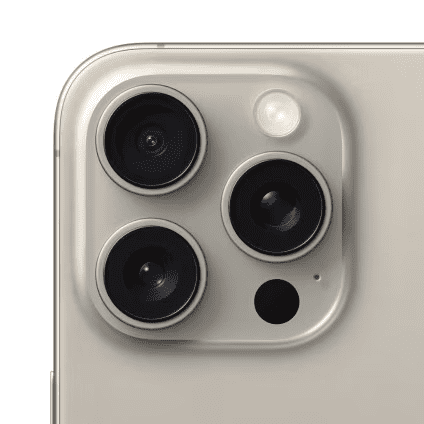
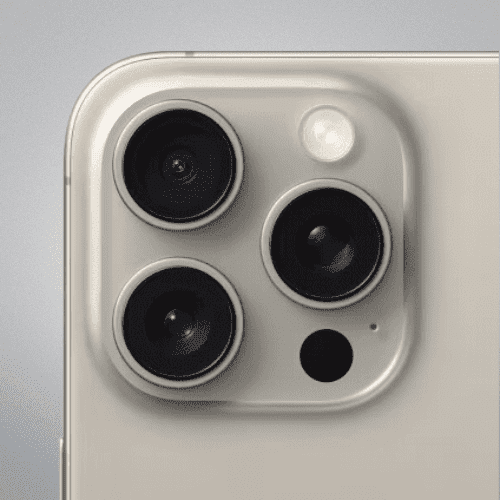
finishing imgs and styling inputs

Changed region(s): [[0.0, 0.0, 1.0, 1.0], [0.9811, 0.8278, 1.0, 1.0]]

diff --git a/product-card/index.html b/product-card/index.html
@@ -10,7 +10,7 @@
   <main>
     <div class="card">
       <div class="image">
-        <img src="/assets/iphone-white/image-01.png" alt="">
+        <img src="/assets/iphone-black/image-01.png" alt="">
       </div>
 
       <div class="title">
@@ -25,10 +25,10 @@
       <div class="choose-color">
         <span>Selecione a cor:</span>
         <div>
-          <div class="color" style="background-color: #bfbbb2;"></div>
-          <div class="color" style="background-color: #fefdf8;"></div>
-          <div class="color" style="background-color: #34475c;"></div>
-          <div class="color" style="background-color: #1d1d1d;"></div>
+          <input type="radio" name="iphone-color" style="background-color: #bfbbb2;"></input>
+          <input type="radio" name="iphone-color" style="background-color: #fefdf8;"></input>
+          <input type="radio" name="iphone-color" style="background-color: #3d5670;"></input>
+          <input type="radio" name="iphone-color" style="background-color: #353535;"></input>
         </div>
       </div>
 
@@ -40,7 +40,7 @@
 
     <div class="card">
       <div class="image">
-        <img src="/assets/mac-silver/image-01.png" alt="">
+        <img src="/assets/mac-midnight/image-01.png" alt="">
       </div>
 
       <div class="title">
@@ -55,9 +55,9 @@
       <div class="choose-color">
         <span>Selecione a cor:</span>
         <div>
-          <div class="color" style="background-color: #cccdcf;"></div>
-          <div class="color" style="background-color: #76777b;"></div>
-          <div class="color" style="background-color: #3a404c;"></div>
+          <input type="radio" name="mac-color" style="background-color: #cccdcf;"></input>
+          <input type="radio" name="mac-color" style="background-color: #76777b;"></input>
+          <input type="radio" name="mac-color" style="background-color: #3a404c;"></input>
         </div>
       </div>
 

diff --git a/product-card/style.css b/product-card/style.css
@@ -36,7 +36,7 @@ main .card {
 .card .image {
   width: 310px;
   height: 270px;
-  border: 1px solid #000;
+  /* border: 1px solid #000; */
   border-radius: inherit;
   overflow: hidden;
 }
@@ -79,7 +79,7 @@ main .card {
 .card .choose-color span {
   font-size: 1.2rem;
   color: #6D6D6D;
-  margin-bottom: 4px;
+  margin-bottom: 8px;
 }
 
 .card .choose-color > div {
@@ -87,13 +87,25 @@ main .card {
   gap: 10px;
 }
 
-.card .choose-color .color {
-  width: 30px;
-  height: 30px;
-  background-color: rgb(182, 58, 58);
-  border: 1px solid #CBCBCB; /* FAZER ALGUM TIPO DE BOX-SHADOW INSET IGUAL SITE APPLE*/
+input {
+  all: unset;
+  width: 28px;
+  height: 28px;
+  background-color: #28BB1B;
+  box-shadow: inset 0 2px 4px rgb(0, 0, 0, 0.350);
   border-radius: 50%;
+  cursor: pointer;
 }
+
+input:hover {
+  outline-offset: 2px;
+  outline: 1px solid #CBCBCB;
+} 
+
+input:checked {
+  outline-offset: 2px;
+  outline: 2px solid #28BB1B;
+} 
 
 .card .buttons button {
   width: 100%;
